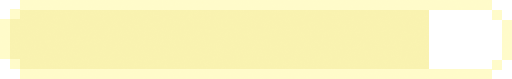
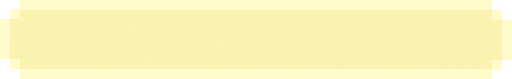
feat(components/LabelInput): 完成样式

Changed region(s): [[0.8125, 0.1266, 1.0, 0.8861]]

diff --git a/src/components/LabelInput/LabelInput.scss b/src/components/LabelInput/LabelInput.scss
@@ -19,3 +19,34 @@
   font-size: 22px;
   background: url("assets/alter-label-bg@2x.png") no-repeat center / contain;
 }
+
+.input-wrapper {
+  position: relative;
+  margin: 20px auto 0;
+  width: 512px;
+  height: 79px;
+  padding: 10px;
+  padding-right: 83px;
+  font-size: 30px;
+  color: #5f5f5f;
+  background: url("assets/input-bg@2x.png") no-repeat center / contain;
+  span {
+    display: inline-block;
+    position: absolute;
+    right: 10px;
+    top: 9px;
+    width: 73px;
+    height: 61px;
+    background: url("assets/btn-ok@2x.png") no-repeat center / 100% 100%;
+  }
+}
+
+.label-input {
+  border: 0;
+  width: 100%;
+  height: 100%;
+  padding-left: 35px;
+  background: transparent;
+  color: inherit;
+  font-size: inherit;
+}

diff --git a/src/components/LabelInput/index.js b/src/components/LabelInput/index.js
@@ -11,6 +11,10 @@ const LabelInput = () => {
         <AlternativeLabel>没有选择我</AlternativeLabel>
         <AlternativeLabel>高冷</AlternativeLabel>
       </p>
+      <div className={styles['input-wrapper']}>
+        <input className={styles['label-input']} type="text"/>
+        <span/>
+      </div>
     </div>
   )
 }
